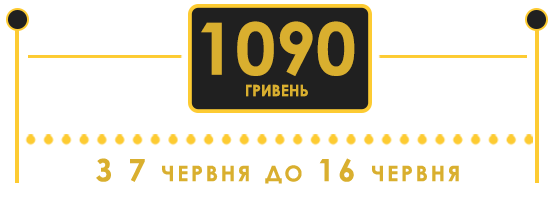
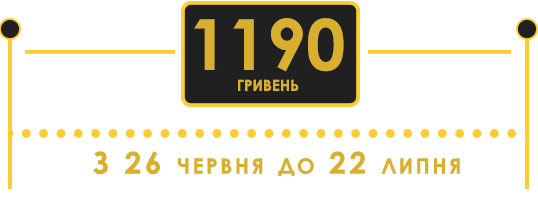
change reg photo

Changed region(s): [[0.0, 0.0, 1.0, 0.96], [0.1487, 0.75, 0.8625, 0.93]]

diff --git a/index.html b/index.html
@@ -549,7 +549,7 @@
               <h3><span>Акція!</span> При поїздці на два і більше заїздів alivecamp, на кожен наступний заїзд надається <span>знижка 20%!</span> </h3>
             </div>
             <div class="col-md-4">
-              <img src="img/fance_new2.png" alt="schedule", class="img-responsive fance-new">
+              <img src="img/fance_new.png" alt="schedule", class="img-responsive fance-new">
             </div>
             <div class="col-md-4 discount-new">
               <h3><span>Не пропусти!!! <br> </span> Надаємо <span>знижку 5%</span> для тих, хто зареєструється <span> <br> з 10 по 11 червня!</span> </h3>

diff --git a/css/main.css b/css/main.css
@@ -1280,7 +1280,7 @@ ul.contact__list-social li{
   top: 48%;
 }
 .strikeout4::after {
-  top: 62.5 %;
+  top: 62.5%;
 }
 .discount-new__row{
   margin-bottom: 2%;
